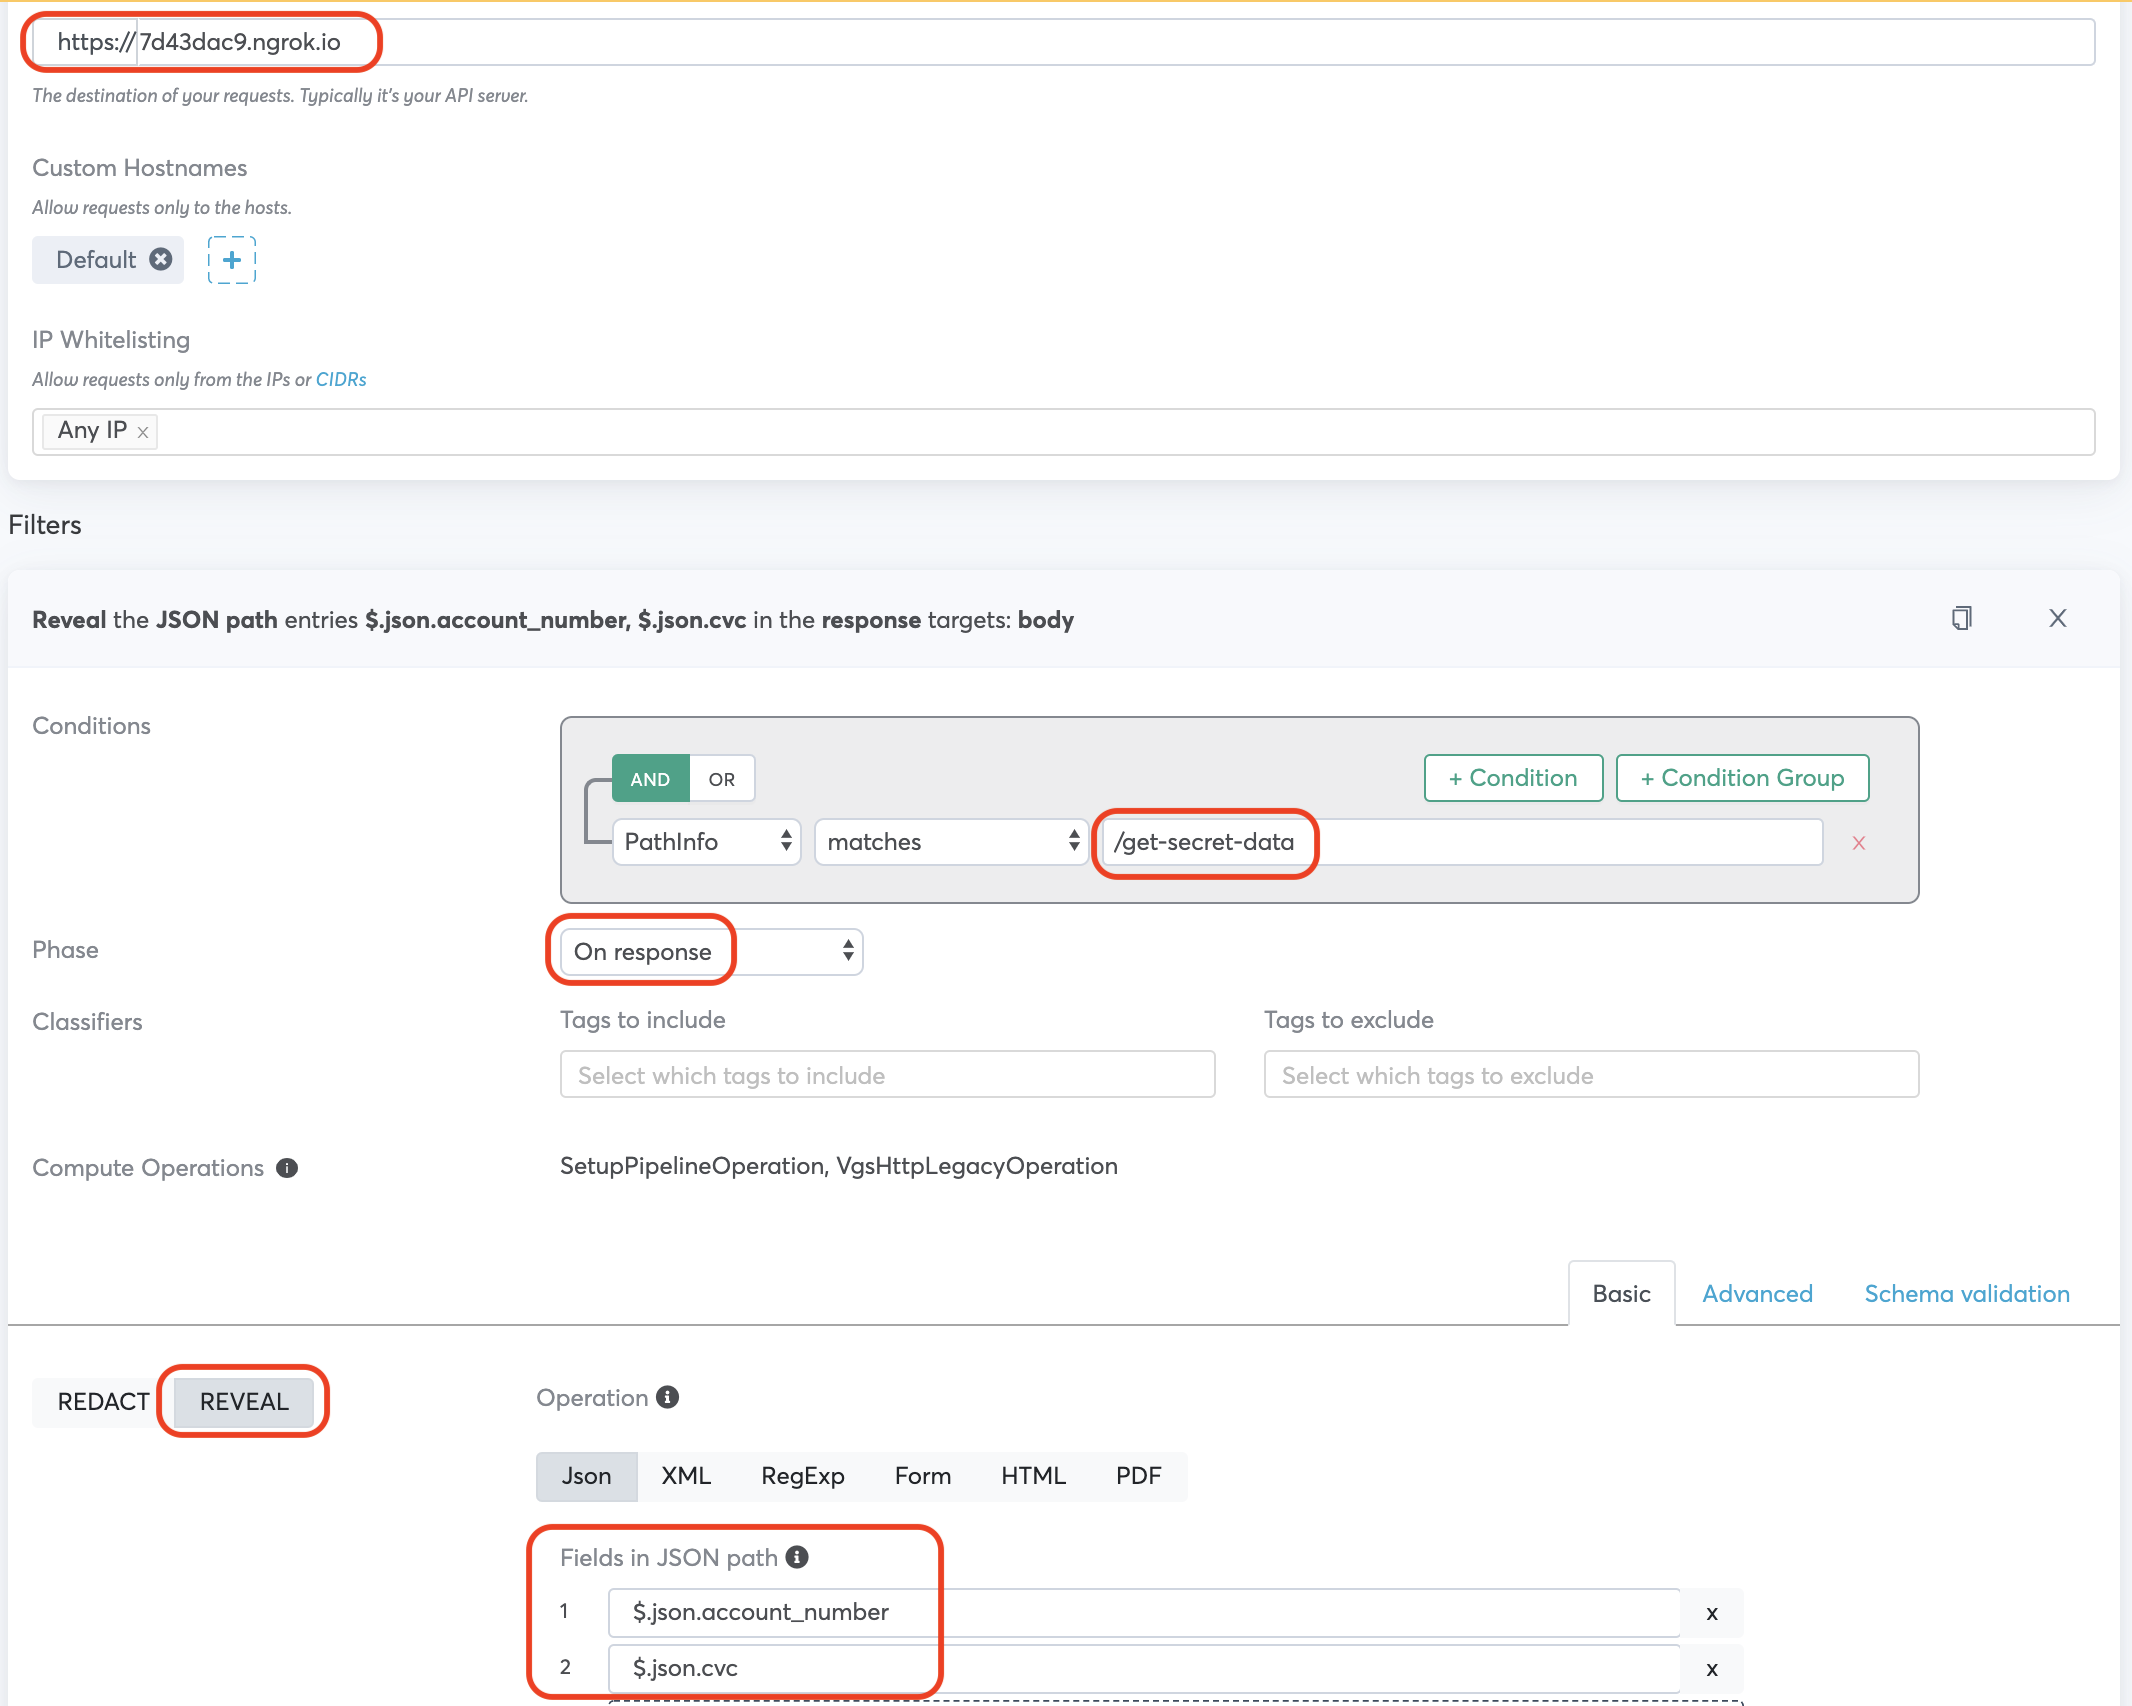
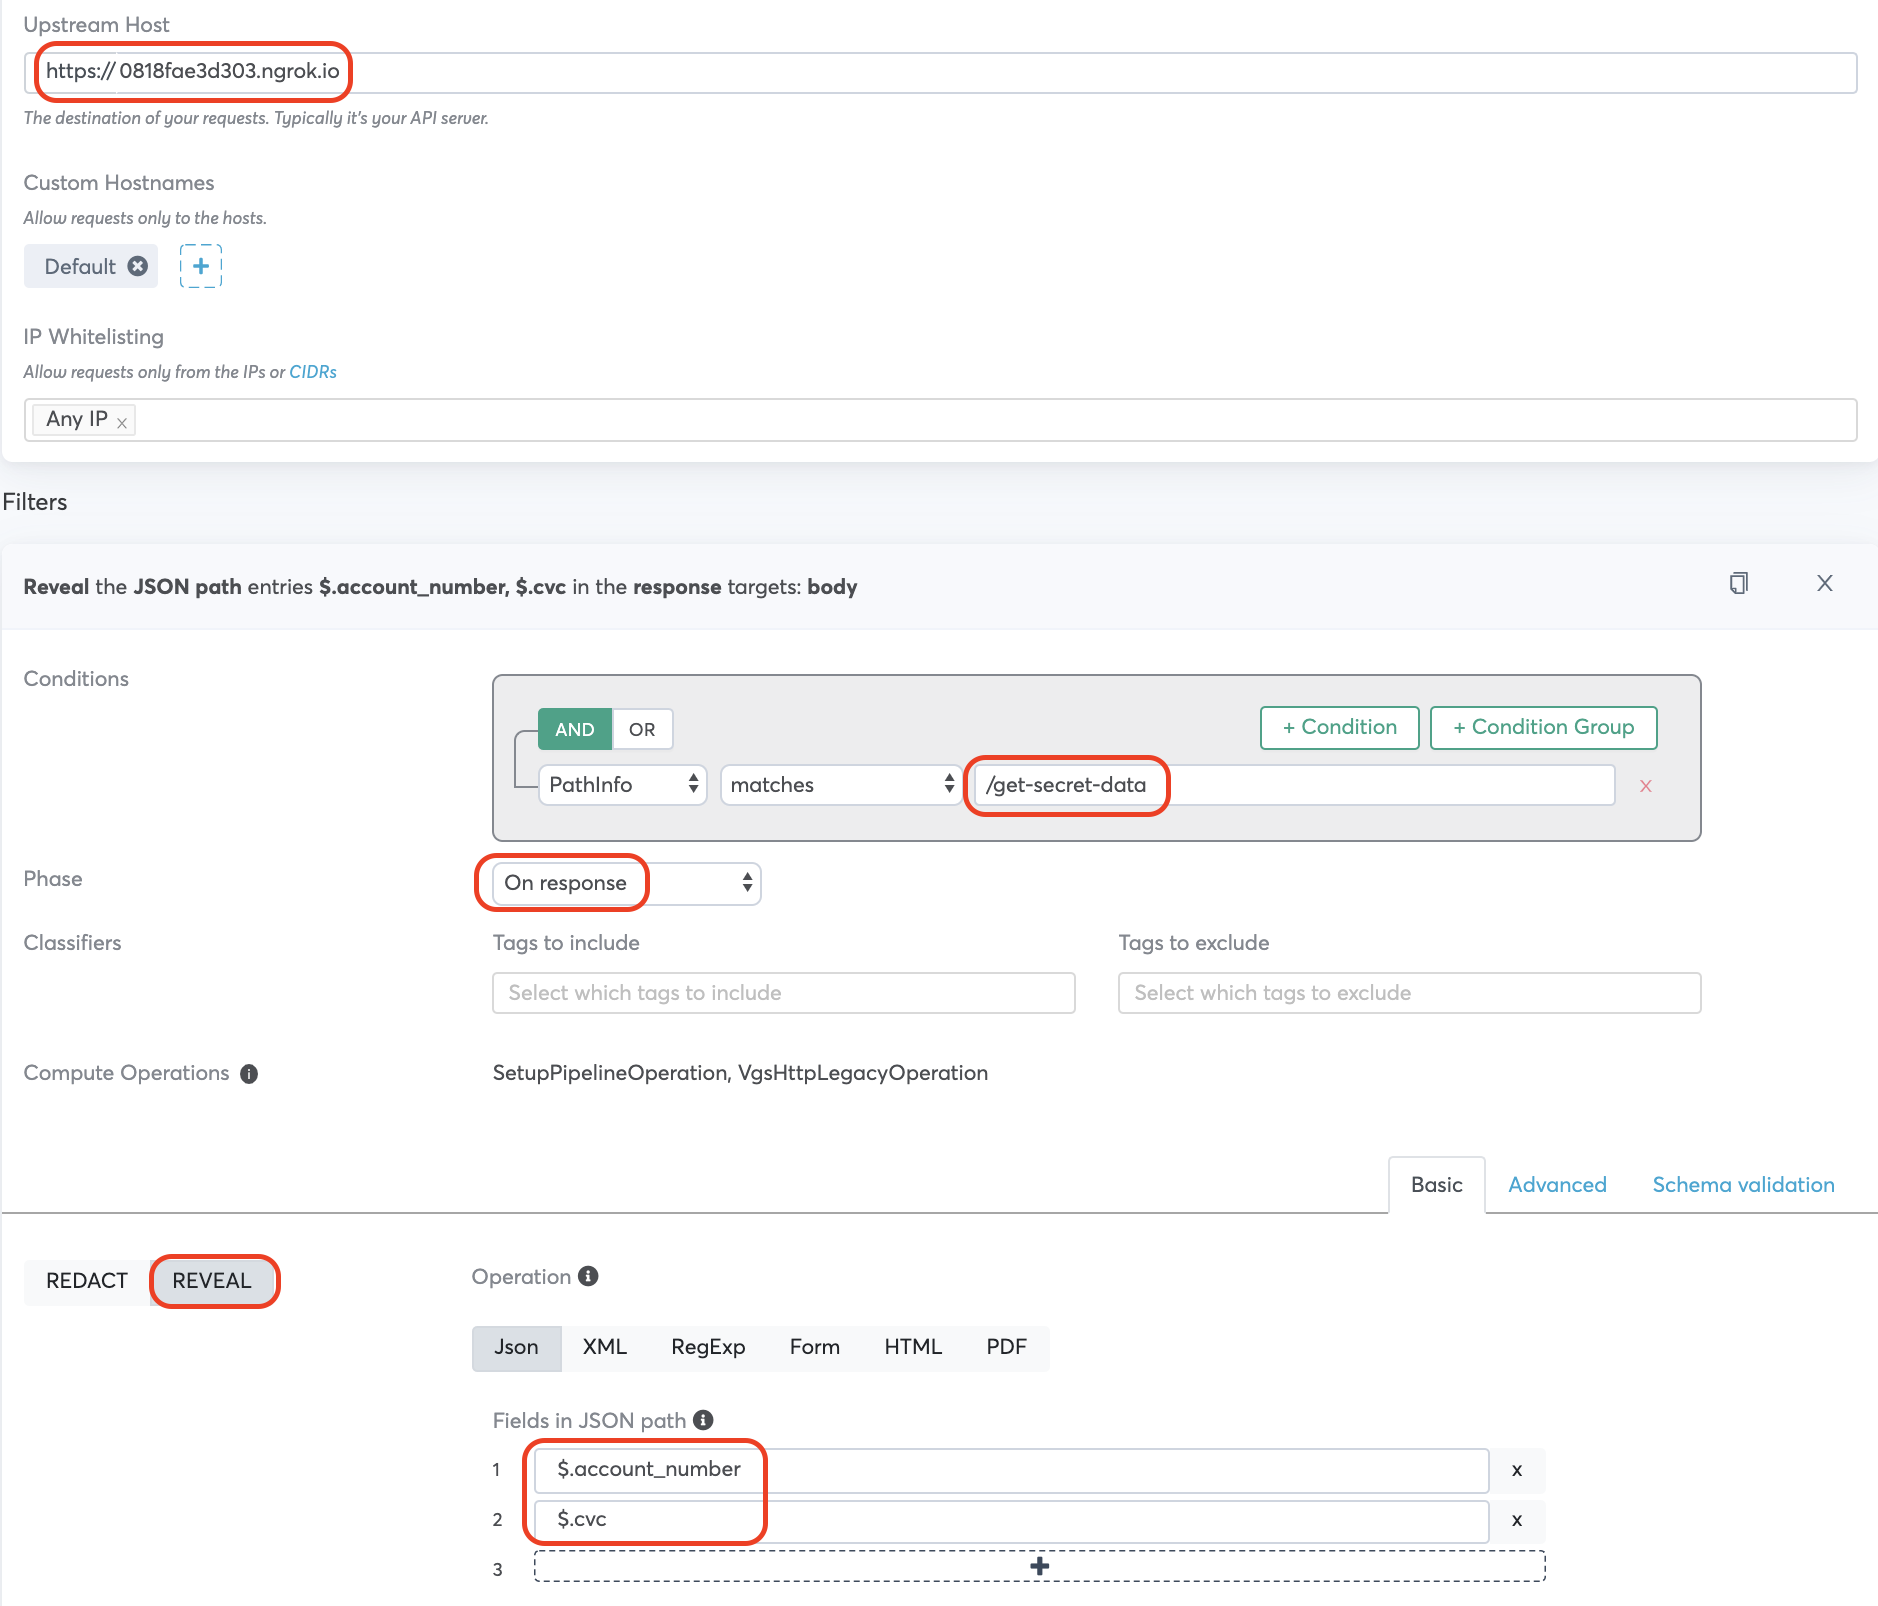
update json path selector and readme

diff --git a/src/main/resources/static/index.html b/src/main/resources/static/index.html
@@ -103,27 +103,27 @@
 
   button.addEventListener('click', function() {
     const show = VGSShow.create('tntxqudwikg', function(state) {
-      document.getElementById('state').innerText = JSON.stringify(state, null, ' '); 
+      document.getElementById('state').innerText = JSON.stringify(state, null, ' ');
     });
  
     const iframe_cc = show.request({
-      name: 'data-text',
-      method: 'POST',
-      path: '/get-secret-data',
-      headers: {'X-Access-Token': 'YWRtaW46cGFzc3dvcmQ='}, // base64 encoded username:password
-      payload: {'json': {'account_number': 'tok_sandbox_7WK53r314zDFKjY5qcMcWH'}},
-      htmlWrapper: 'text',
-      jsonPathSelector: 'json.account_number'
+        name: 'data-text',
+        method: 'POST',
+        path: '/get-secret-data',
+        headers: {'X-Access-Token': 'YWRtaW46cGFzc3dvcmQ='}, // base64 encoded username:password
+        payload: {'account_number': 'tok_sandbox_7WK53r314zDFKjY5qcMcWH'},
+        htmlWrapper: 'text',
+        jsonPathSelector: 'account_number'
     });
 
     const iframe_cvc = show.request({
-      name: 'data-text',
-      method: 'POST',
-      path: '/get-secret-data',
-      headers: {'X-Access-Token': 'YWRtaW46cGFzc3dvcmQ='}, // base64 encoded username:password
-      payload: {'json': {'cvc': 'tok_sandbox_k2HapT8dNPnN5i3XQj6hwV'}},
-      htmlWrapper: 'text',
-      jsonPathSelector: 'json.cvc'
+        name: 'data-text',
+        method: 'POST',
+        path: '/get-secret-data',
+        headers: {'X-Access-Token': 'YWRtaW46cGFzc3dvcmQ='}, // base64 encoded username:password
+        payload: {'cvc': 'tok_sandbox_k2HapT8dNPnN5i3XQj6hwV'},
+        htmlWrapper: 'text',
+        jsonPathSelector: 'cvc'
     });
     
     iframe_cc.render('#revealed-card-number');

diff --git a/README.md b/README.md
@@ -39,27 +39,27 @@ The code below would initiate POST requests to backend API endpoint `/get-secret
 
   button.addEventListener('click', function() {
     const show = VGSShow.create('tntxqudwikg', function(state) {
-      document.getElementById('state').innerText = JSON.stringify(state, null, ' '); 
+      document.getElementById('state').innerText = JSON.stringify(state, null, ' ');
     });
  
     const iframe_cc = show.request({
-      name: 'data-text',
-      method: 'POST',
-      path: '/get-secret-data',
-      headers: {'X-Access-Token': 'YWRtaW46cGFzc3dvcmQ='}, // base64 encoded username:password
-      payload: {'json': {'account_number': 'tok_sandbox_7WK53r314zDFKjY5qcMcWH'}},
-      htmlWrapper: 'text',
-      jsonPathSelector: 'json.account_number'
+        name: 'data-text',
+        method: 'POST',
+        path: '/get-secret-data',
+        headers: {'X-Access-Token': 'YWRtaW46cGFzc3dvcmQ='}, // base64 encoded username:password
+        payload: {'account_number': 'tok_sandbox_7WK53r314zDFKjY5qcMcWH'},
+        htmlWrapper: 'text',
+        jsonPathSelector: 'account_number'
     });
 
     const iframe_cvc = show.request({
-      name: 'data-text',
-      method: 'POST',
-      path: '/get-secret-data',
-      headers: {'X-Access-Token': 'YWRtaW46cGFzc3dvcmQ='}, // base64 encoded username:password
-      payload: {'json': {'cvc': 'tok_sandbox_k2HapT8dNPnN5i3XQj6hwV'}},
-      htmlWrapper: 'text',
-      jsonPathSelector: 'json.cvc'
+        name: 'data-text',
+        method: 'POST',
+        path: '/get-secret-data',
+        headers: {'X-Access-Token': 'YWRtaW46cGFzc3dvcmQ='}, // base64 encoded username:password
+        payload: {'cvc': 'tok_sandbox_k2HapT8dNPnN5i3XQj6hwV'},
+        htmlWrapper: 'text',
+        jsonPathSelector: 'cvc'
     });
     
     iframe_cc.render('#revealed-card-number');
